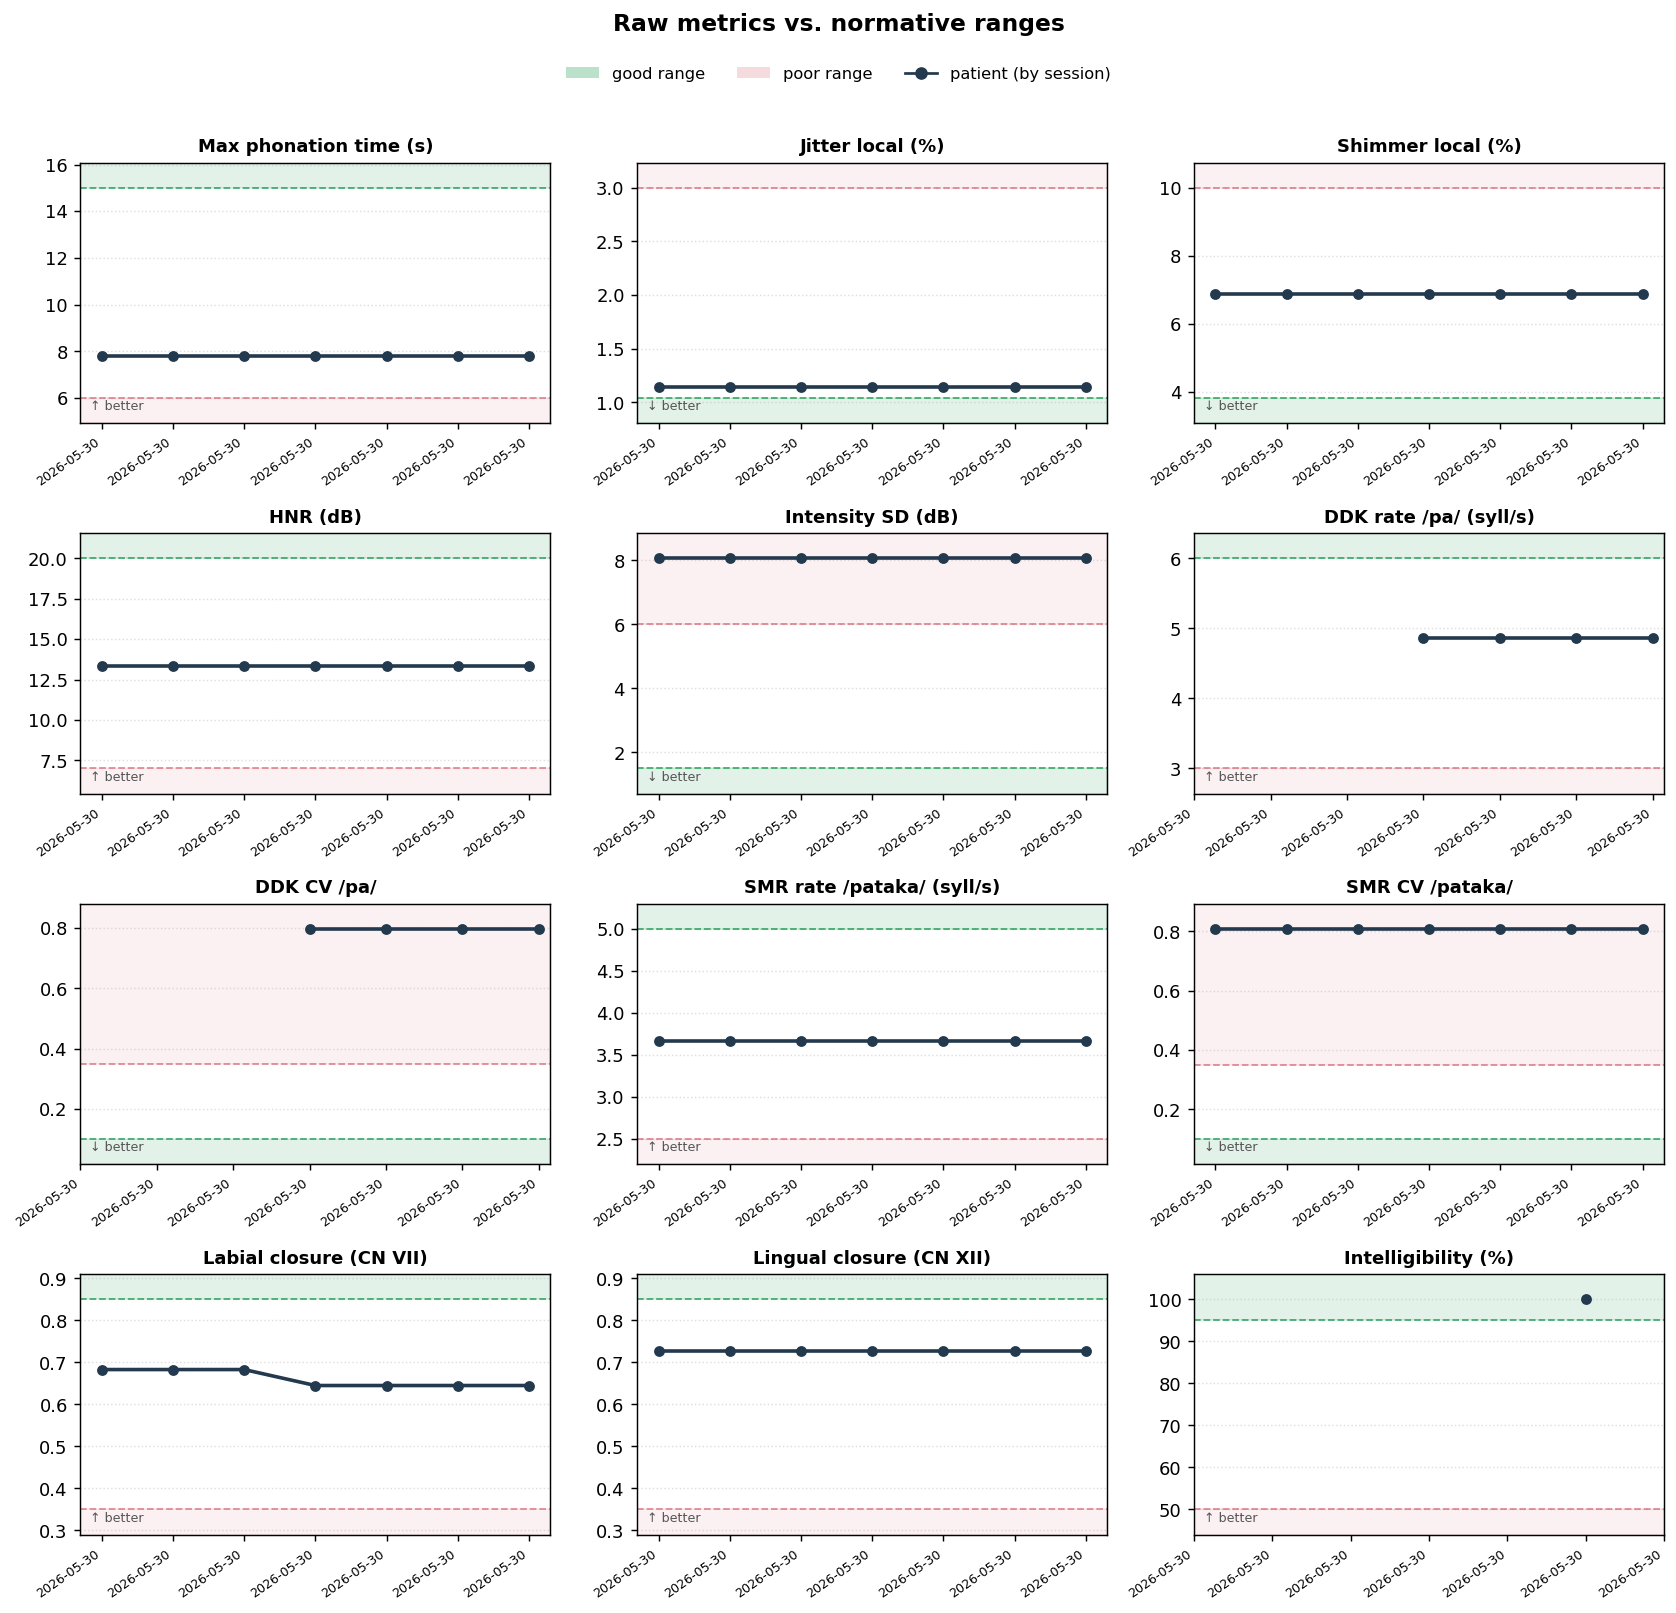
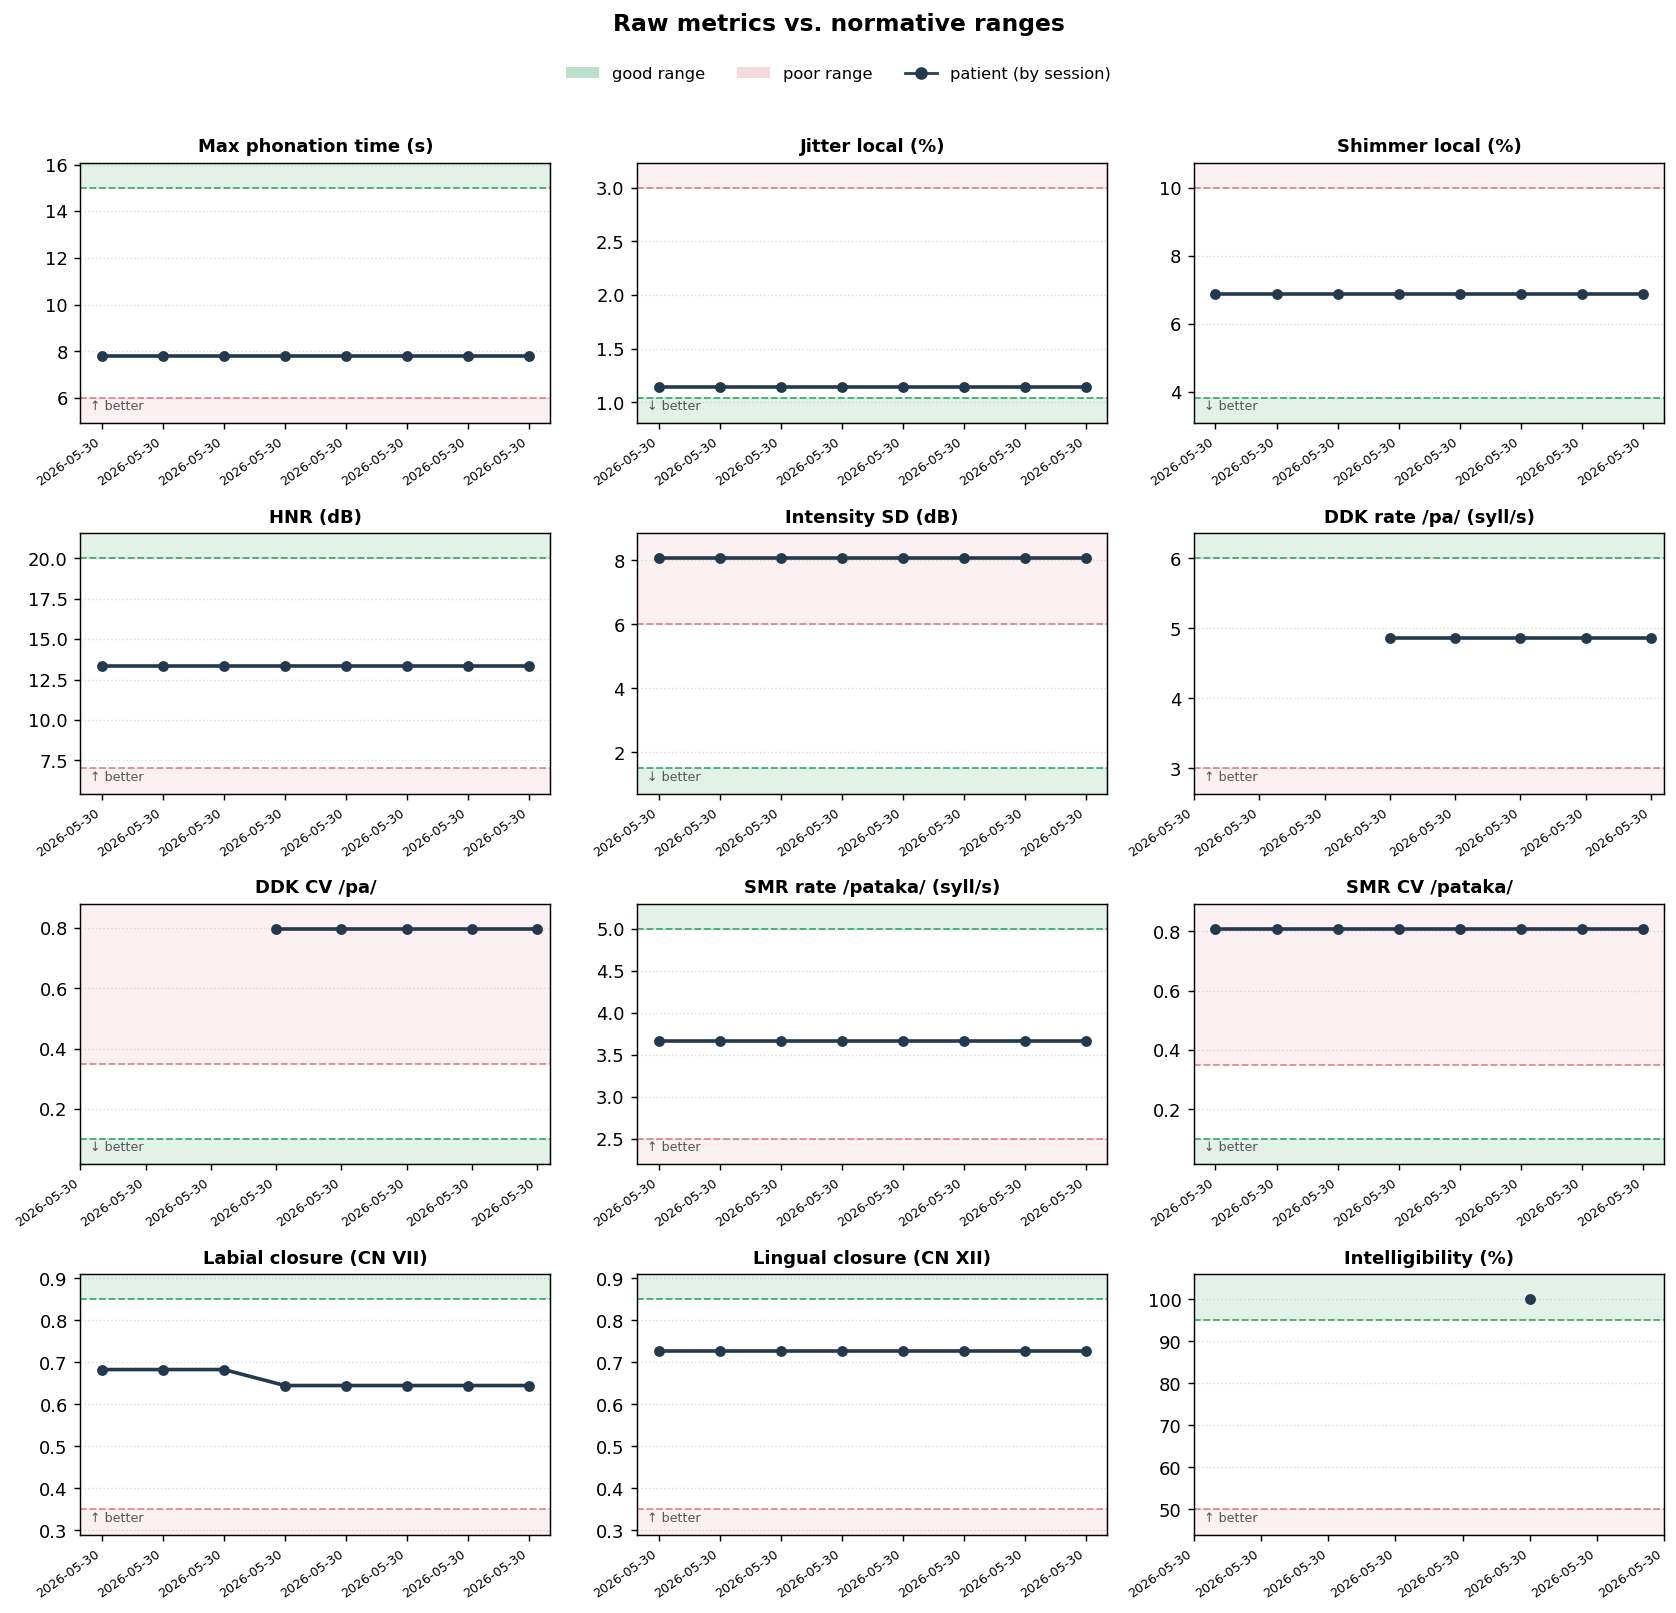
adding m4a conversion

diff --git a/src/main/python/dysarthria_analysis.py b/src/main/python/dysarthria_analysis.py
@@ -23,7 +23,10 @@ they do not replace, the speech-language pathologist's perceptual judgment.
 from __future__ import annotations
 import json
 import os
+import shutil
 import statistics
+import subprocess
+import tempfile
 from dataclasses import dataclass, asdict, field
 from datetime import datetime
 
@@ -73,9 +76,60 @@ def _score(value, good, poor):
 # ----------------------------------------------------------------------------
 # Low-level helpers
 # ----------------------------------------------------------------------------
+_FFMPEG = shutil.which("ffmpeg")
+
+
+def ensure_pcm_wav(path, sr=44100, cache_dir=None, force=False):
+    """Re-encode any audio file (m4a, AAC, float/odd WAV, ...) to mono 16-bit PCM
+    WAV via ffmpeg, so Praat/parselmouth can read it reliably. Returns the path to
+    the converted file. Results are cached, so repeat runs don't re-encode.
+
+    If ffmpeg is not installed, prints a warning and returns the original path
+    unchanged (the caller's loader fallback may still cope with plain WAVs).
+    """
+    if path is None:
+        return None
+    if _FFMPEG is None:
+        print("[warn] ffmpeg not found on PATH; using original file as-is. "
+              "Install it for robust decoding:  sudo apt install ffmpeg")
+        return path
+
+    cache_dir = cache_dir or os.path.join(tempfile.gettempdir(), "dysarthria_wav")
+    os.makedirs(cache_dir, exist_ok=True)
+    base = os.path.splitext(os.path.basename(path))[0]
+    out = os.path.join(cache_dir, f"{base}__{sr}hz_mono.wav")
+
+    # skip if a fresh cached copy already exists
+    if (not force and os.path.exists(out)
+            and os.path.getmtime(out) >= os.path.getmtime(path)):
+        return out
+
+    try:
+        subprocess.run(
+            [_FFMPEG, "-y", "-i", path, "-ac", "1", "-ar", str(sr),
+             "-c:a", "pcm_s16le", out],
+            check=True, capture_output=True, text=True)
+    except subprocess.CalledProcessError as e:
+        tail = (e.stderr or "").strip().splitlines()
+        print(f"[warn] ffmpeg could not convert {path}: "
+              f"{tail[-1] if tail else 'unknown error'}")
+        return path
+    return out
+
+
 def load_sound(path, target_sr=44100):
-    snd = parselmouth.Sound(path)
-    return snd
+    try:
+        return parselmouth.Sound(path)          # fast path: Praat reads it directly
+    except parselmouth.PraatError:
+        try:
+            import soundfile as sf
+            y, sr = sf.read(path, always_2d=False)   # handles float/odd WAVs
+        except Exception:
+            y, sr = librosa.load(path, sr=None, mono=True)  # last resort (uses ffmpeg)
+        y = np.asarray(y, dtype="float64")
+        if y.ndim > 1:                          # stereo -> mono
+            y = y.mean(axis=1)
+        return parselmouth.Sound(y, sampling_frequency=sr)
 
 
 def _voiced_intensity_std(snd, pitch=None):
@@ -608,8 +662,18 @@ def _clean_nan(obj):
 
 def full_session(vowel_path=None, ddk_path=None, reading_path=None,
                  target_text=None, transcript=None, ddk_syllable="pa",
-                 pataka_path=None):
-    """Run every available task and return (domains, raw_metrics)."""
+                 pataka_path=None, reformat=True, sr=44100):
+    """Run every available task and return (domains, raw_metrics).
+
+    If reformat is True (default), each input is first normalised to mono 16-bit
+    PCM WAV with ffmpeg so phone recordings (m4a/AAC/odd WAV) load reliably.
+    """
+    if reformat:
+        vowel_path   = ensure_pcm_wav(vowel_path, sr)
+        ddk_path     = ensure_pcm_wav(ddk_path, sr)
+        reading_path = ensure_pcm_wav(reading_path, sr)
+        pataka_path  = ensure_pcm_wav(pataka_path, sr)
+
     v = analyze_sustained_vowel(vowel_path) if vowel_path else None
     d = analyze_ddk(ddk_path, syllable=ddk_syllable) if ddk_path else None
     r = analyze_reading(reading_path, target_text, transcript) if reading_path else None
@@ -630,10 +694,14 @@ if __name__ == "__main__":
                    help="render the longitudinal domain chart after logging")
     p.add_argument("--plot-metrics", metavar="OUT.png", dest="plot_metrics",
                    help="render the per-metric small-multiples chart with norm bands")
+    p.add_argument("--reformat", action=argparse.BooleanOptionalAction, default=True,
+                   help="auto-convert inputs to mono 16-bit PCM WAV via ffmpeg (default: on)")
+    p.add_argument("--sr", type=int, default=44100, help="target sample rate for reformatting")
     a = p.parse_args()
 
     domains, raw = full_session(a.vowel, a.ddk, a.reading,
-                                a.target, a.transcript, a.syllable, a.pataka)
+                                a.target, a.transcript, a.syllable, a.pataka,
+                                reformat=a.reformat, sr=a.sr)
     print("RAW METRICS:");      print(json.dumps(_clean_nan(raw), indent=2))
     print("\nDOMAIN SCORES (0-100, higher = better):")
     print(json.dumps(domains, indent=2))

diff --git a/src/main/Readme.md b/src/main/Readme.md
@@ -29,4 +29,11 @@ pip install numpy scipy librosa soundfile praat-parselmouth matplotlib
 
 $ python ./src/main/python/dysarthria_analysis.py   --vowel ./src/main/resources/recordings/Aaaaa-AUDIO-2026-05-30-11-46-42.wav --ddk ./src/main/resources/recordings/papapa-AUDIO-2026-05-30-13-02-48.wav --pataka ./src/main/resources/recordings/pataka-AUDIO-2026-05-30-11-47-35.wav --reading ./src/main/resources/recordings/Reading-AUDIO-2026-05-30-11-44-42.wav --note "first try from Jose" --plot "OUT.png" --plot-metrics "OUT.png" \
 --target "Mi papá compró pan y pasteles para la fiesta.Mamá puso la mesa con platos y tazas.Pablo y Pepe tomaron café con tostadas.Todos quedaron muy contentos después de comer." \
+[--transcript "Mi papá compró pan y pasteles para la fiesta.Mamá puso la mesa con platos y tazas.Pablo y Pepe tomaron café con tostadas.Todos quedaron 
+muy contentos después de comer."]
+
+# exploring m4a inputs
+
+$ python ./src/main/python/dysarthria_analysis.py   --vowel ./src/main/resources/recordings/Aaaaa-AUDIO-2026-05-30-11-46-42.m4a --ddk ./src/main/resources/recordings/papapa-AUDIO-2026-05-30-13-02-48.m4a --pataka ./src/main/resources/recordings/pataka-AUDIO-2026-05-30-11-47-35.m4a --reading ./src/main/resources/recordings/Reading-AUDIO-2026-05-30-11-44-42.m4a --note "first try from Jose" --plot "OUT.png" --plot-metrics "OUT.png" \
+--target "Mi papá compró pan y pasteles para la fiesta.Mamá puso la mesa con platos y tazas.Pablo y Pepe tomaron café con tostadas.Todos quedaron muy contentos después de comer." \
 --transcript "Mi papá compró pan y pasteles para la fiesta.Mamá puso la mesa con platos y tazas.Pablo y Pepe tomaron café con tostadas.Todos quedaron muy contentos después de comer."